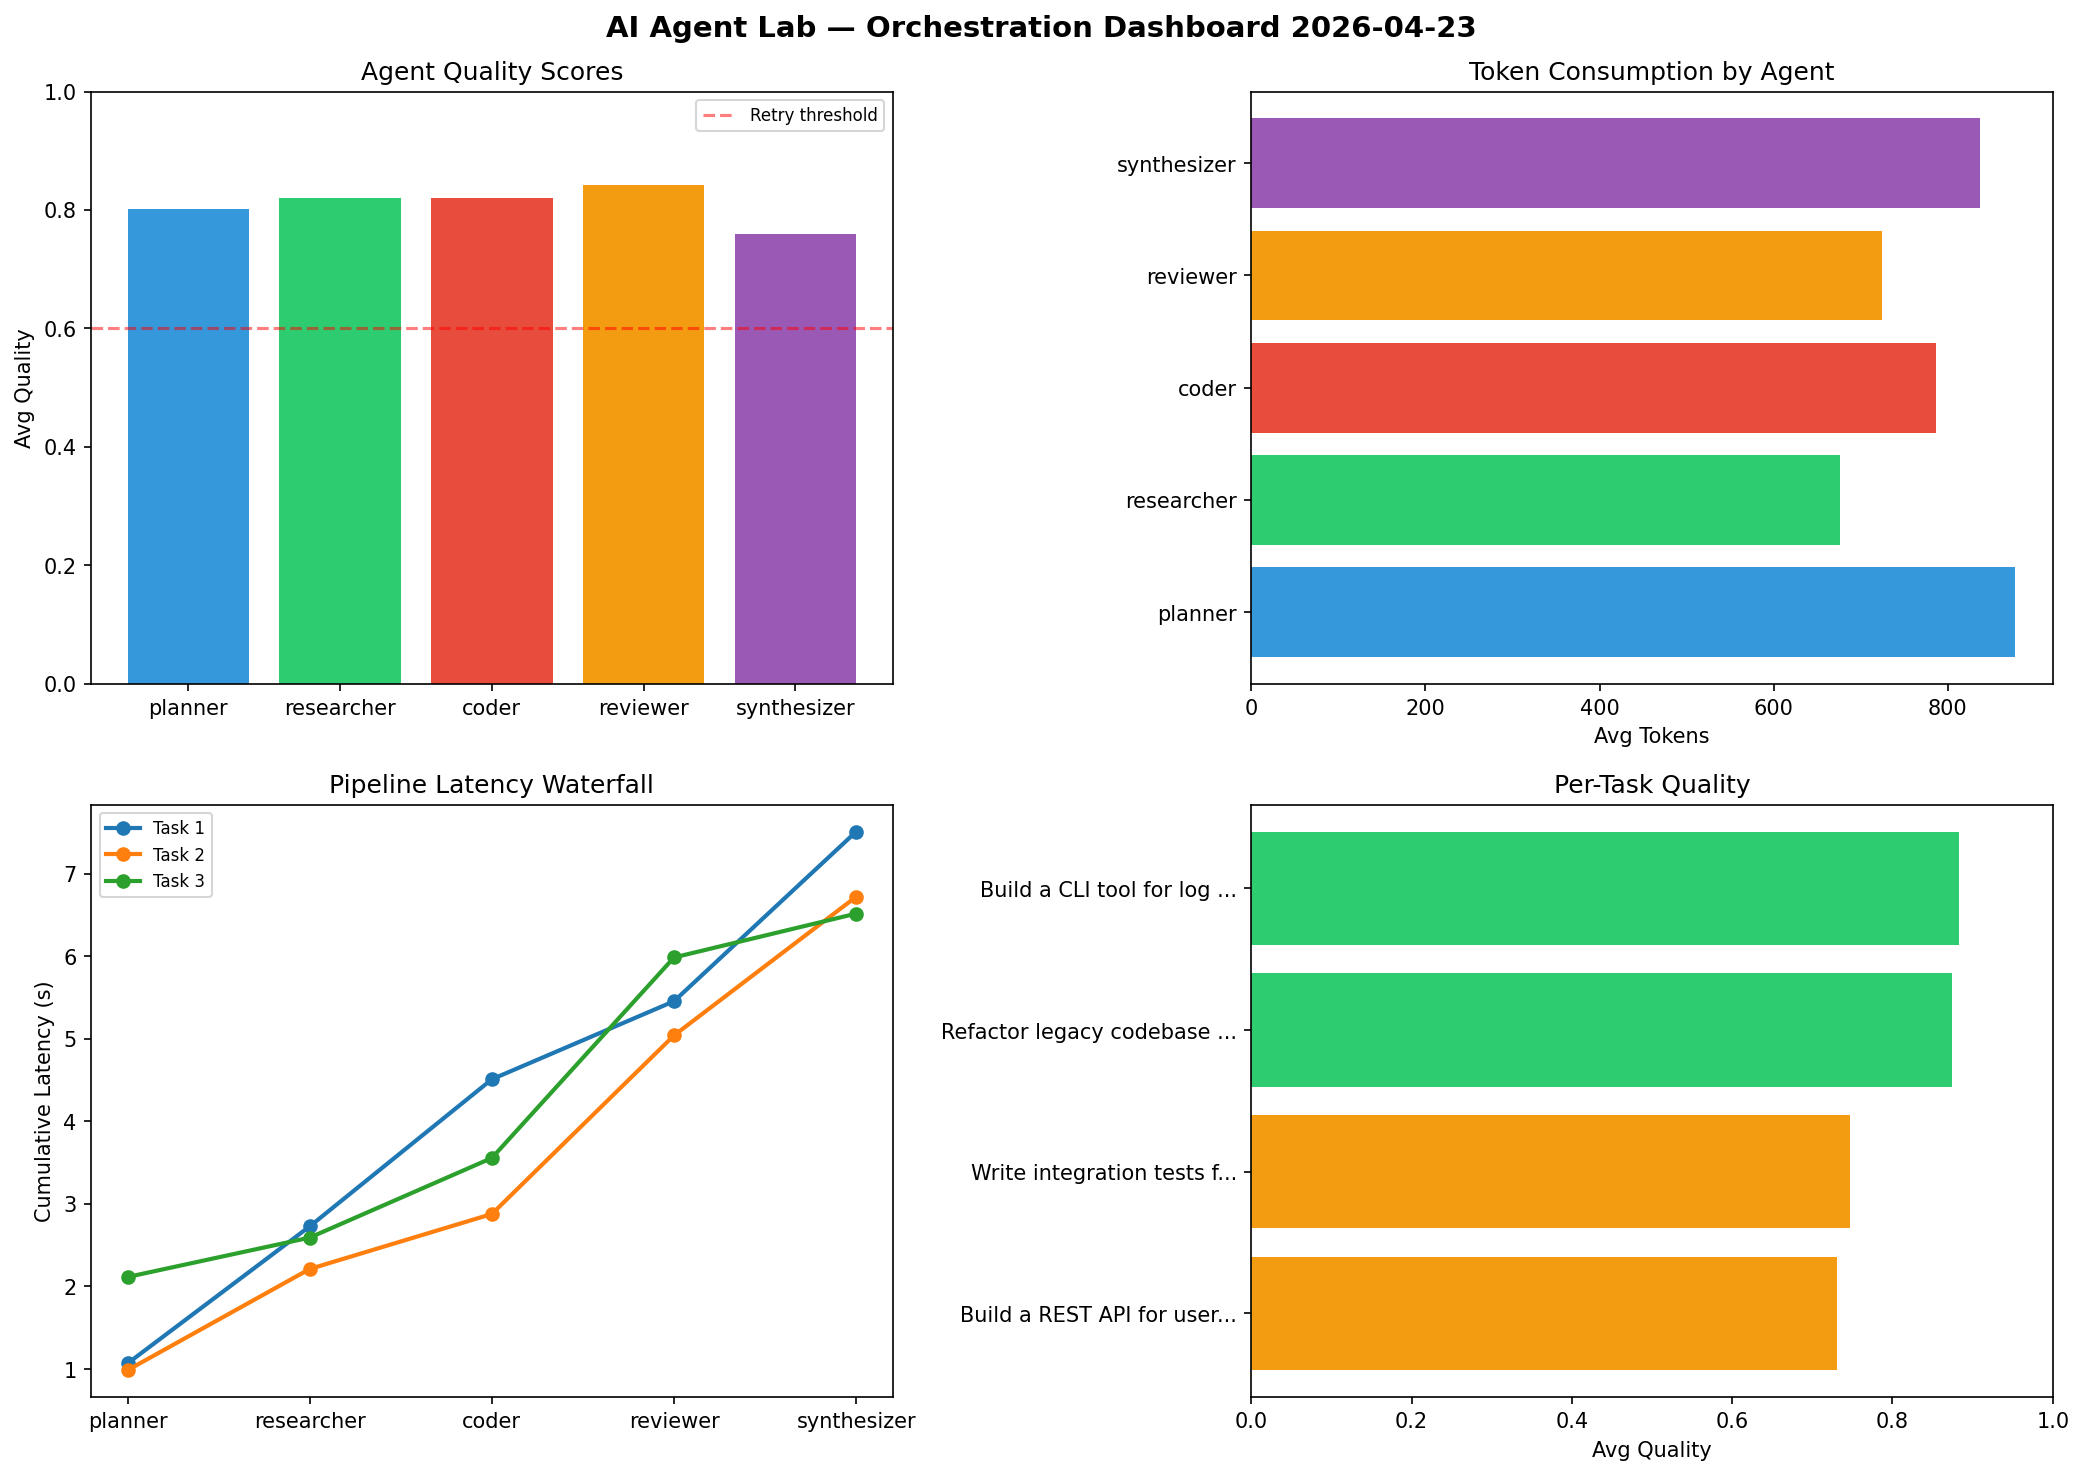
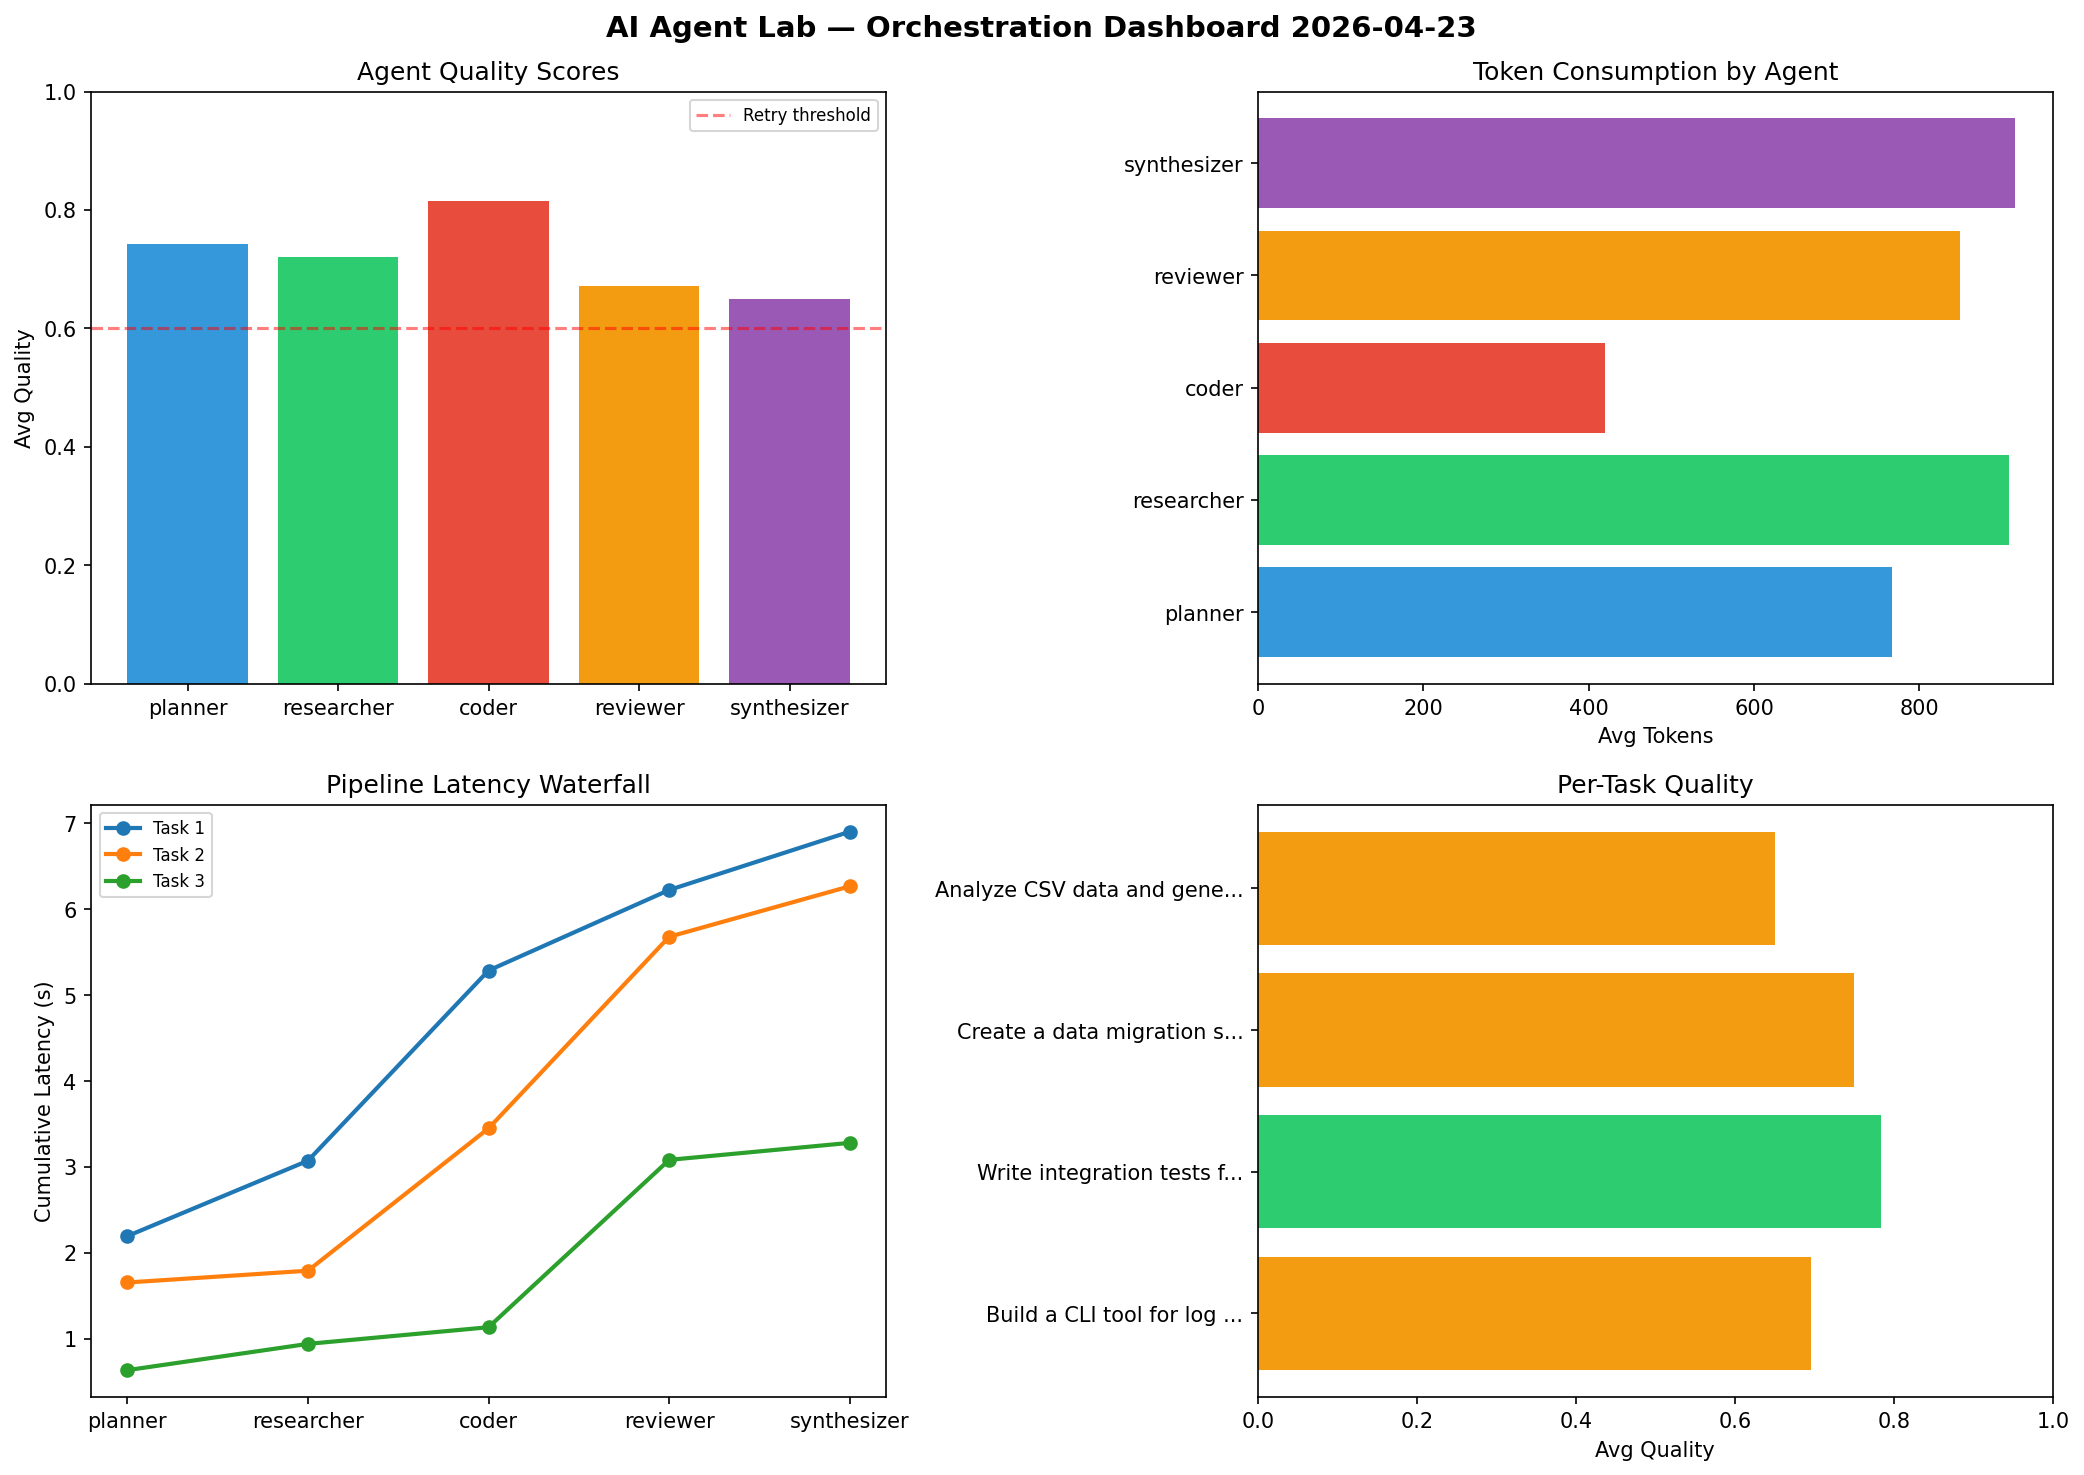
ai-agent-lab: orchestration run 2026-04-23T09:58

diff --git a/logs/2026-04-23.md b/logs/2026-04-23.md
@@ -1,6 +1,6 @@
 # AI Agent Lab — Orchestration Report 2026-04-23
 
-**Run ID:** `29dfc80131` | **Tasks:** 4 | **Avg Quality:** 0.809
+**Run ID:** `8368db5917` | **Tasks:** 4 | **Avg Quality:** 0.72
 
 ![Dashboard](2026-04-23_dashboard.png)
 
@@ -8,52 +8,52 @@
 
 | Metric | Value |
 |--------|-------|
-| avg_latency | 6.81 |
-| total_tokens | 15607 |
-| avg_quality | 0.809 |
+| avg_latency | 6.05 |
+| total_tokens | 15439 |
+| avg_quality | 0.72 |
 
 ## Delta vs Yesterday
 
 | Metric | Today | Yesterday | Change |
 |--------|-------|-----------|--------|
-| avg_latency | 6.81 | 5.841 | 📈 16.6% |
-| total_tokens | 15607 | 14234 | 📈 9.6% |
-| avg_quality | 0.809 | 0.754 | 📈 7.3% |
+| avg_latency | 6.05 | 5.841 | 📈 3.6% |
+| total_tokens | 15439 | 14234 | 📈 8.5% |
+| avg_quality | 0.72 | 0.754 | 📉 -4.5% |
 
 ## Pipeline Results
-
-### Build a REST API for user authentication
-| Agent | Quality | Latency | Tokens | Status |
-|-------|---------|---------|--------|--------|
-| planner | 0.85 | 1.069s | 995 | success |
-| researcher | 0.828 | 1.659s | 645 | success |
-| coder | 0.555 | 1.781s | 790 | needs_retry |
-| reviewer | 0.753 | 0.945s | 715 | success |
-| synthesizer | 0.667 | 2.053s | 743 | success |
-
-### Write integration tests for payment processing module
-| Agent | Quality | Latency | Tokens | Status |
-|-------|---------|---------|--------|--------|
-| planner | 0.743 | 0.987s | 832 | success |
-| researcher | 0.637 | 1.225s | 513 | success |
-| coder | 0.897 | 0.666s | 960 | success |
-| reviewer | 0.772 | 2.162s | 443 | success |
-| synthesizer | 0.688 | 1.679s | 520 | success |
-
-### Refactor legacy codebase to use dependency injection
-| Agent | Quality | Latency | Tokens | Status |
-|-------|---------|---------|--------|--------|
-| planner | 0.958 | 2.115s | 733 | success |
-| researcher | 0.849 | 0.477s | 790 | success |
-| coder | 0.868 | 0.964s | 608 | success |
-| reviewer | 0.989 | 2.428s | 1075 | success |
-| synthesizer | 0.704 | 0.531s | 832 | success |
 
 ### Build a CLI tool for log analysis
 | Agent | Quality | Latency | Tokens | Status |
 |-------|---------|---------|--------|--------|
-| planner | 0.655 | 2.413s | 947 | success |
-| researcher | 0.968 | 1.282s | 757 | success |
-| coder | 0.96 | 1.24s | 788 | success |
-| reviewer | 0.853 | 1.22s | 666 | success |
-| synthesizer | 0.978 | 0.345s | 1255 | success |
+| planner | 0.511 | 2.194s | 270 | needs_retry |
+| researcher | 0.655 | 0.878s | 973 | success |
+| coder | 0.987 | 2.215s | 457 | success |
+| reviewer | 0.72 | 0.938s | 1025 | success |
+| synthesizer | 0.606 | 0.679s | 862 | success |
+
+### Write integration tests for payment processing module
+| Agent | Quality | Latency | Tokens | Status |
+|-------|---------|---------|--------|--------|
+| planner | 0.908 | 1.654s | 1066 | success |
+| researcher | 0.745 | 0.137s | 1063 | success |
+| coder | 0.95 | 1.658s | 339 | success |
+| reviewer | 0.586 | 2.231s | 1219 | needs_retry |
+| synthesizer | 0.733 | 0.588s | 1033 | success |
+
+### Create a data migration script for schema v2
+| Agent | Quality | Latency | Tokens | Status |
+|-------|---------|---------|--------|--------|
+| planner | 0.876 | 0.633s | 975 | success |
+| researcher | 0.908 | 0.306s | 990 | success |
+| coder | 0.653 | 0.194s | 559 | success |
+| reviewer | 0.647 | 1.949s | 649 | success |
+| synthesizer | 0.667 | 0.198s | 846 | success |
+
+### Analyze CSV data and generate statistical summary
+| Agent | Quality | Latency | Tokens | Status |
+|-------|---------|---------|--------|--------|
+| planner | 0.676 | 2.297s | 754 | success |
+| researcher | 0.573 | 1.105s | 609 | needs_retry |
+| coder | 0.671 | 0.94s | 325 | success |
+| reviewer | 0.735 | 2.168s | 504 | success |
+| synthesizer | 0.594 | 1.237s | 921 | needs_retry |
